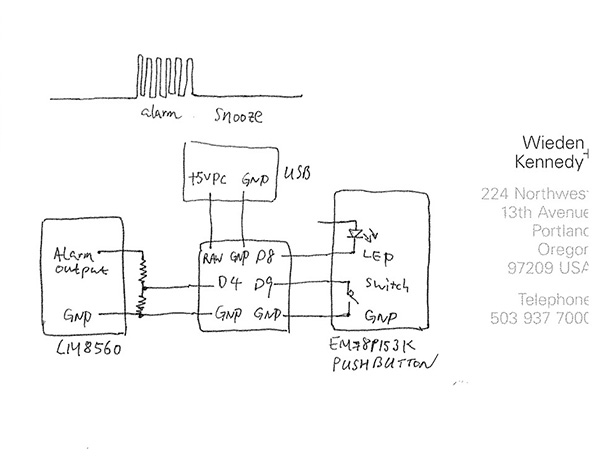
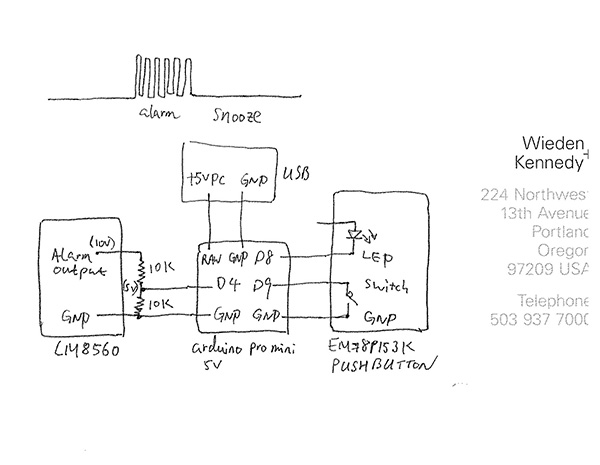
added notes of voltage divider, updated schematics accordingly

diff --git a/README.md b/README.md
@@ -5,4 +5,6 @@ snooze-coffee
 
 Notes
 =====
-* Sony Dream Machine MCU - UTC LM8560 uses 10VAC, which is not suitable to power Arduino Pro Mini. The final product uses a 120VAC-5VDC USB adapter
+<<<<<<< HEAD
+* Sony Dream Machine MCU - UTC LM8560 uses 10VAC, which is not suitable to power Arduino Pro Mini. The final product uses a 120VAC-5VDC USB adapter.
+* LM8560 Alarm Output is 10V logic level, a voltage divider is used to convert 10V to 5V logic level.
